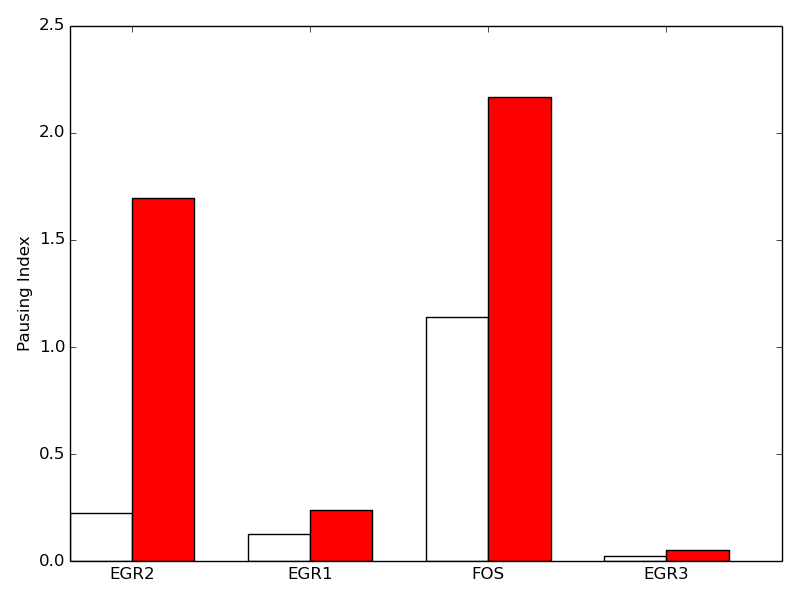
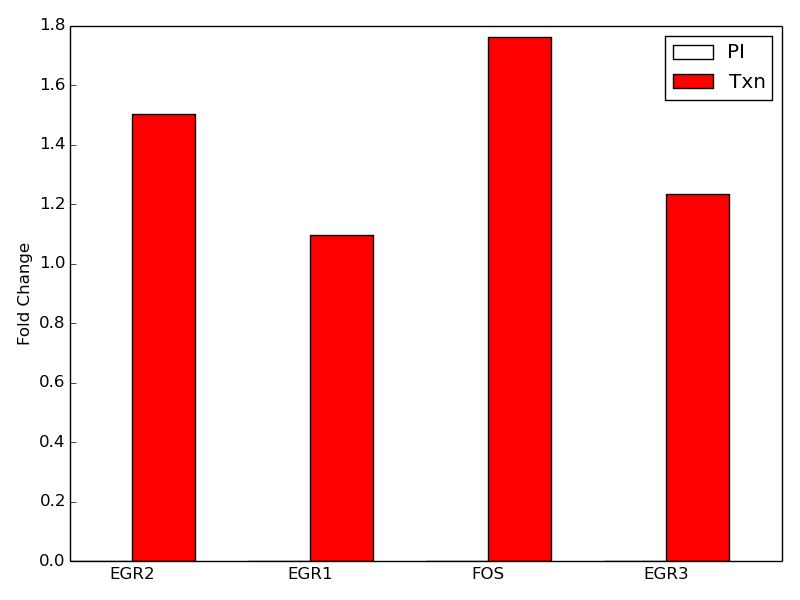
updates

diff --git a/src/master_writer.py b/src/master_writer.py
@@ -105,8 +105,8 @@ def run(DMSOgenes,DMSOTSS,DMSOEND,CAgenes,CATSS,CAEND,filedir,figuredir):
             print gene
             print str(DMSOTSS/(DMSOgenes-DMSOTSS))
             print str(CATSS/(CAgenes-CATSS))
-            PIbarplot.append(CATSS/(CAgenes-CATSS)/DMSOTSS/(DMSOgenes-DMSOTSS))
-            Txnbarplot.append(CAgenes/DMSOgenes)
+            PIbarplot.append(np.log2((CATSS/(CAgenes-CATSS))/(DMSOTSS/(DMSOgenes-DMSOTSS))))
+            Txnbarplot.append(np.log2(CAgenes/DMSOgenes))
             namelist.append(name)
         
         #if CAgenes-CATSS > CATSS and DMSOgenes-DMSOTSS > DMSOTSS and CAgenes-CAEND > CAEND and DMSOgenes-DMSOEND > DMSOEND and DMSOgenes > coveragecutoff and CAgenes > coveragecutoff:
